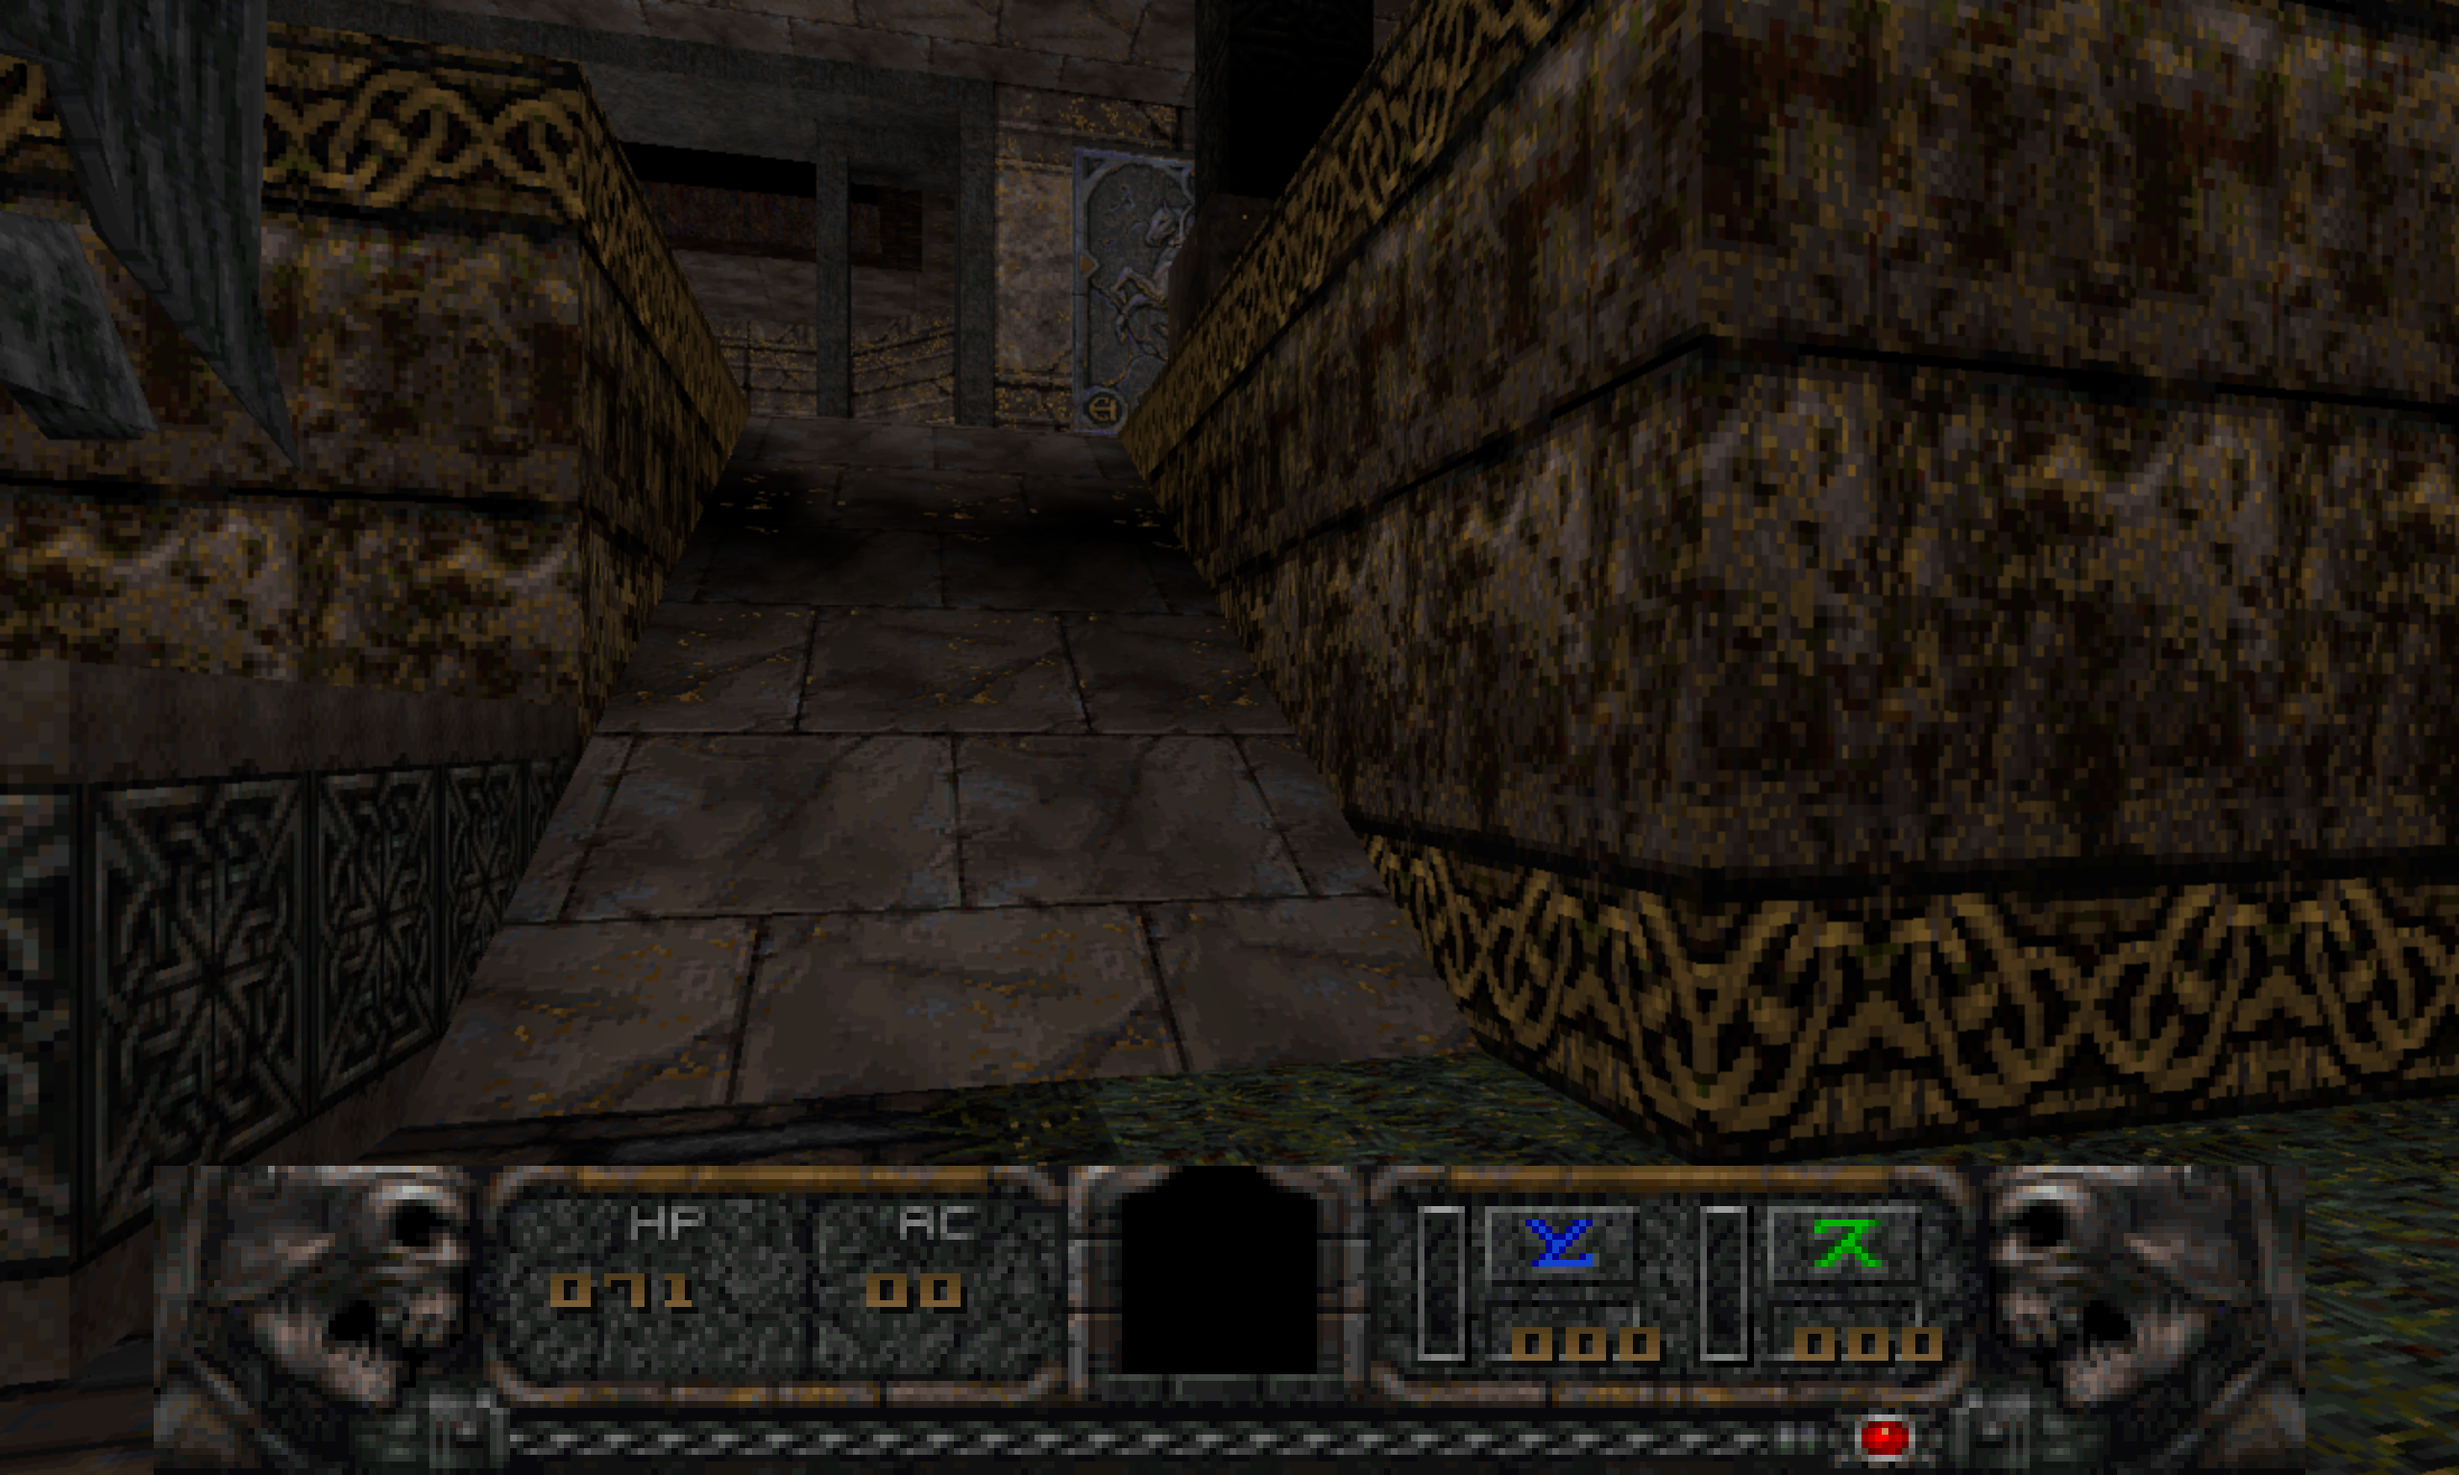
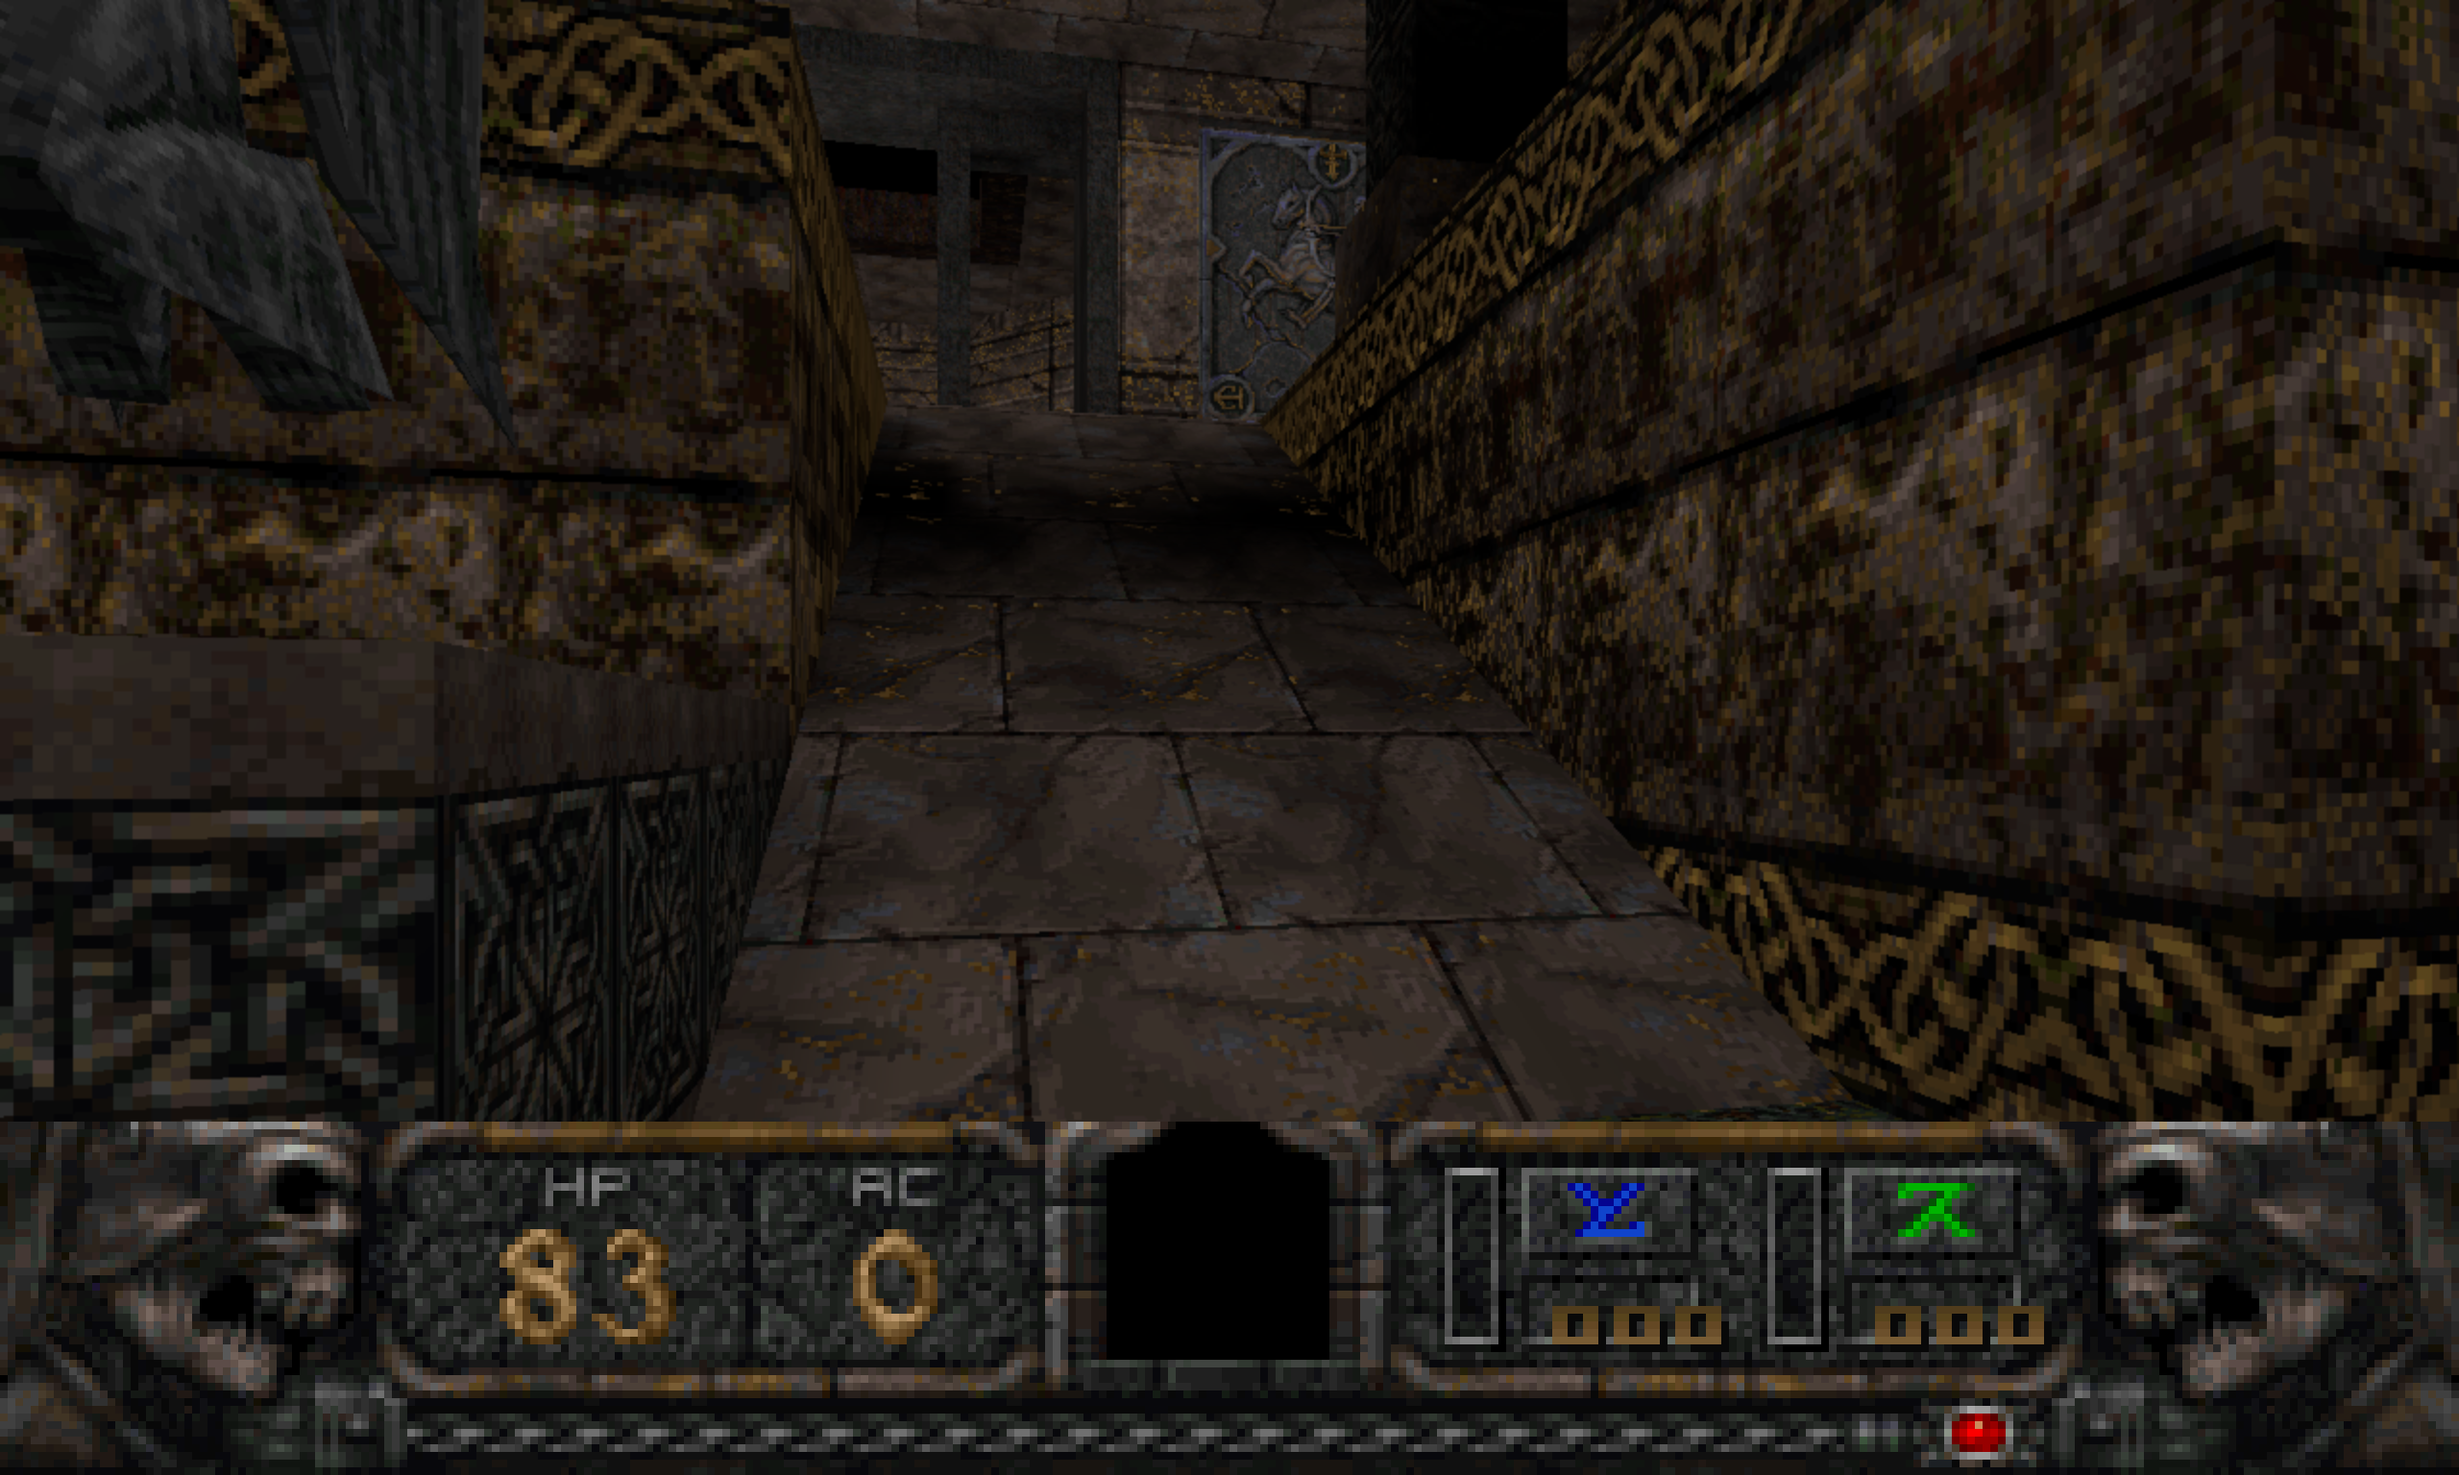
hexen2: draw the native status numbers and bar geometry
Problem: the owner's comparison screenshots show the HUD font/placement wrong and the bar cropped: the port drew HP/AC/mana
with the console charset and an integer height scale, while native Hexen uses the num_*.lmp pictures from gfx.wad across a
320-wide bar scaled to the screen width and anchored to the bottom.

Change: load Hexen's gfx.wad and draw numbers from num_0..9/num_minus at native 13px spacing, right-aligned in their digit
field; scale the 320x200 HUD by screen width and bottom-anchor it; load the 256x128 conchars for text; pass the chosen
difficulty through the session into the mount before entity spawn.

Outcome: the product-host screenshot at 1280x768 shows ornate native numerals (HP 83, AC 0), the bar spanning the full
width with its side skulls and bottom chain edge. Packaged autoplay earlier recorded skill 1, arrow turn, movement along
the view and game sounds with no frame errors. Hexen/catalogue suites pass.

Still G1: owner retest of this build, the central weapon/artifact icon, RED->GREEN obligations for code-first
presentation modules. Four physical peers are G2 per the plan.

Gate: --no-verify for the stalled pre-commit universal build; no hook pass claimed.

Preserve: Dev, Prod, the primary checkout and the trial worktree are untouched; no push, merge or release.

diff --git a/src/engine/client/hexen2_page.js b/src/engine/client/hexen2_page.js
@@ -11,7 +11,8 @@
  * Errors: a failed mount returns `{ ok: false, reason }`; a WebGL failure propagates from `VID_Init`.
  */
 
-import { COM_AddPack, COM_FindFile } from '../common/pak.js';
+import { COM_AddPack, COM_FindFile, COM_LoadFile } from '../common/pak.js';
+import { W_LoadWadFile } from '../common/wad.js';
 import { Cmd_Init, Cmd_ExecuteString, Cbuf_Execute, Cbuf_Init } from '../common/cmd.js';
 import { Cvar_SetValue } from '../common/cvar.js';
 import { renderer } from '../render/vid.js';
@@ -24,7 +25,7 @@ import { set_loadmodel } from '../render/gl_model_common.js';
 import { Mod_LoadBrushModel } from '../render/gl_model_bsp.js';
 import { R_Init, R_NewMap, R_RenderView, set_r_worldentity } from '../render/gl_rmain.js';
 import { entity_t, r_refdef } from '../render/render.js';
-import { Draw_Init, Draw_BeginFrame, Draw_CachePic, Draw_Pic, Draw_String, Draw_SetExternals } from '../render/gl_draw.js';
+import { Draw_Init, Draw_BeginFrame, Draw_CachePic, Draw_Pic, Draw_PicFromWad, Draw_String, Draw_SetExternals } from '../render/gl_draw.js';
 import { sv, SIGNON_SIZE } from '../server/server.js';
 import { SV_Move, SV_TestEntityPosition, SV_LinkEdict, SV_PointContents } from '../server/world.js';
 import { SV_SetCallbacks as SV_SetPhysCallbacks, SV_Physics, SV_SetFrametime, SV_SetPlayer } from '../server/sv_phys.js';
@@ -133,6 +134,26 @@ export async function Hexen2_PageStart( options ) {
 		const worldEntity = new entity_t(); worldEntity.model = session.map; worldEntity.frame = 0; set_r_worldentity( worldEntity );
 		R_NewMap();
 		Draw_SetExternals( { vid, d_8to24table } );
+		const wad = COM_LoadFile( 'gfx.wad' );
+		if ( wad ) W_LoadWadFile( wad );
+		const sbNums = [];
+		for ( let i = 0; i < 10; i ++ ) sbNums.push( Draw_PicFromWad( 'num_' + i ) );
+		const sbMinus = Draw_PicFromWad( 'num_minus' );
+		const drawNum = ( value, digits, x, y ) => {
+
+			const text = String( value | 0 );
+			let at = Math.max( 0, text.length - digits );
+			if ( text.length < digits ) x += Math.floor( ( digits - text.length ) * 13 / 2 );
+			for ( ; at < text.length; at ++ ) {
+
+				const ch = text[ at ];
+				const pic = ch === '-' ? sbMinus : sbNums[ ch.charCodeAt( 0 ) - 48 ];
+				if ( pic ) Draw_Pic( x, y, pic );
+				x += 13;
+
+			}
+
+		};
 		const charset = COM_FindFile( 'gfx/menu/conchars.lmp' );
 		Draw_Init( null, charset ? new Uint8Array( charset.data.buffer, charset.data.byteOffset, charset.size ) : null );
 		const bound = Hexen2_BindClientState( session.state, { cl, clEntities: cl_entities,
@@ -226,7 +247,7 @@ export async function Hexen2_PageStart( options ) {
 				const hud = Hexen2_HudFromClientState( session.state );
 				Hexen2_DrawStatusBar( Hexen2_StatusBarOps( hud ), {
 					pic: ( name, x, y ) => { const pic = Draw_CachePic( name ); if ( !pic ) return false; Draw_Pic( x, y, pic ); return true; },
-					num: ( value, digits, x, y ) => Draw_String( x, y, String( value ).padStart( digits, '0' ) ),
+					num: drawNum,
 					small: ( text, x, y ) => Draw_String( x, y, text )
 				} );
 				const context = S_GetAudioContext();

diff --git a/src/engine/render/gl_draw.js b/src/engine/render/gl_draw.js
@@ -703,8 +703,8 @@ export function Draw_BeginFrame( mode = 'default' ) {
 		if ( mode === 'height' ) {
 
 			// a native 320x200 HUD scaled to the window height, centred horizontally (Hexen's bar art)
-			const scale = Math.max( 1, Math.floor( overlayCanvas.height / 200 ) );
-			overlayCtx.setTransform( scale, 0, 0, scale, ( overlayCanvas.width - 320 * scale ) / 2, overlayCanvas.height - 200 * scale );
+			const scale = overlayCanvas.width / 320;
+			overlayCtx.setTransform( scale, 0, 0, scale, 0, overlayCanvas.height - 200 * scale );
 
 		} else overlayCtx.setTransform( _uiScale, 0, 0, _uiScale, 0, 0 );
 
